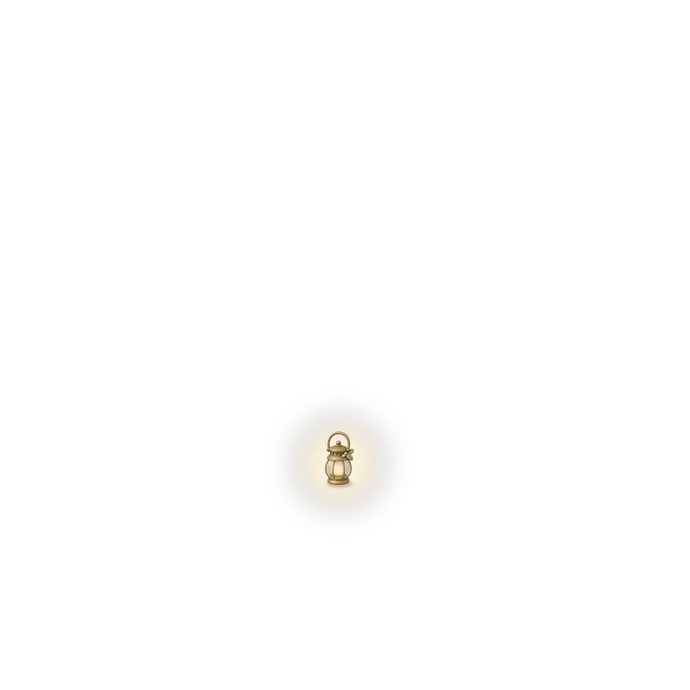
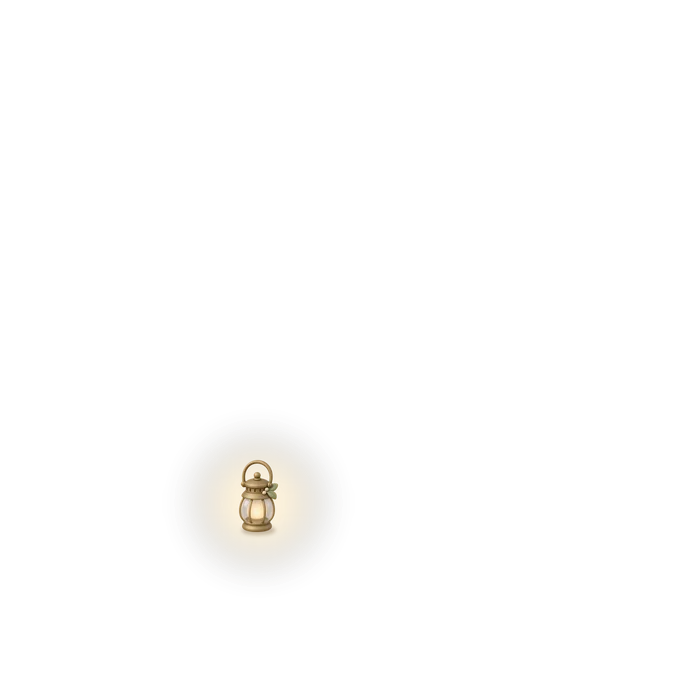
feat(island): 가구를 담당자가 직접 놓은 자리로 다시 만들고 7종만 남김 - 러그·치즈 선반·꽃 화분·랜턴·우편함·올리브 나무·나룻배, 디딤돌·울타리·벤치·해먹·먹이통은 자리 미정이라 mock 에서 주석 처리

Changed region(s): [[0.2739, 0.6087, 0.5783, 0.8217]]

diff --git a/src/features/island/islandApi.ts b/src/features/island/islandApi.ts
@@ -1,24 +1,19 @@
 import { ApiError } from '@/shared/api'
 import oliveTree from '@/assets/images/island-items/01-olive-tree.webp'
 import flowerPot from '@/assets/images/island-items/02-flower-pot.webp'
-import steppingStones from '@/assets/images/island-items/03-stepping-stones.webp'
-import fence from '@/assets/images/island-items/04-fence.webp'
-import bench from '@/assets/images/island-items/05-bench.webp'
-import hammock from '@/assets/images/island-items/06-hammock.webp'
+// import steppingStones from '@/assets/images/island-items/03-stepping-stones.webp'
+// import fence from '@/assets/images/island-items/04-fence.webp'
+// import bench from '@/assets/images/island-items/05-bench.webp'
+// import hammock from '@/assets/images/island-items/06-hammock.webp'
 import lantern from '@/assets/images/island-items/07-lantern.webp'
-import feedingTrough from '@/assets/images/island-items/08-feeding-trough.webp'
+// import feedingTrough from '@/assets/images/island-items/08-feeding-trough.webp'
 import cheeseShelf from '@/assets/images/island-items/09-cheese-shelf.webp'
 import mailbox from '@/assets/images/island-items/10-mailbox.webp'
 import rowboat from '@/assets/images/island-items/11-rowboat.webp'
 import rug from '@/assets/images/island-items/12-rug.webp'
 import oliveTreePlaced from '@/assets/images/island-items/placed/01-olive-tree.webp'
 import flowerPotPlaced from '@/assets/images/island-items/placed/02-flower-pot.webp'
-import steppingStonesPlaced from '@/assets/images/island-items/placed/03-stepping-stones.webp'
-import fencePlaced from '@/assets/images/island-items/placed/04-fence.webp'
-import benchPlaced from '@/assets/images/island-items/placed/05-bench.webp'
-import hammockPlaced from '@/assets/images/island-items/placed/06-hammock.webp'
 import lanternPlaced from '@/assets/images/island-items/placed/07-lantern.webp'
-import feedingTroughPlaced from '@/assets/images/island-items/placed/08-feeding-trough.webp'
 import cheeseShelfPlaced from '@/assets/images/island-items/placed/09-cheese-shelf.webp'
 import mailboxPlaced from '@/assets/images/island-items/placed/10-mailbox.webp'
 import rowboatPlaced from '@/assets/images/island-items/placed/11-rowboat.webp'
@@ -50,23 +45,25 @@ function mock(
   return { itemId, name, category, price, imageUrl, placedImageUrl, placedOrder, owned: false }
 }
 
-// 모듈 메모리(새로고침하면 초기화). 순서·이름·값은 시안 카드(109:280~) 그대로 — 그림 파일 번호(01~12)와 같은 순서.
+// 모듈 메모리(새로고침하면 초기화). 이름·값은 시안 카드(109:280~) 그대로 — 그림 파일 번호(01~12)와 같은 순서.
 // 임의 결정(확인 필요): 분류 배정은 이름으로 정함 — 시안·명세에 없음
-// 임의 결정(확인 필요): 섬에 놓이는 자리(줄 끝 주석)는 가구마다 하나씩 다르게 정함 — 시안 없음. 놓인 그림(placed/*.webp)은
-// 카드 그림을 섬 그림 위 그 자리에 얹어 만든 투명 레이어다(그림자·동굴 안 색·물에 잠긴 부분 포함).
+// 섬에 놓이는 자리·크기·겹치는 순서(마지막 인자)는 담당자가 배치 도구로 직접 놓은 값이다(2026-11-15). 놓인 그림(placed/*.webp)은
+// 카드 그림을 섬 그림 위 그 자리에 얹어 만든 투명 레이어다(그림자·동굴 안 색·물에 잠긴 부분은 임의로 넣음).
+// 주석 처리한 5종(디딤돌·울타리·벤치·해먹·먹이통)은 자리를 아직 정하지 않아 목록에서 뺐다 — 사용자 요청.
+// 되살릴 때: 자리를 정해 placed/ 에 놓인 그림을 만들고, 위의 카드 그림 import 주석과 함께 푼 뒤 `…Placed` import 를 더한다.
 const mockItems: IslandItem[] = [
-  mock('1', '올리브 나무', 'PLANT', 12, oliveTree, oliveTreePlaced, 4), // 동굴 지붕의 흰 바위 꼭대기
-  mock('2', '꽃 화분', 'PLANT', 24, flowerPot, flowerPotPlaced, 7), // 동굴 입구 왼쪽 모래
-  mock('3', '디딤돌', 'PATH', 12, steppingStones, steppingStonesPlaced, 6), // 선착장에서 동굴로 가는 모래밭
-  mock('4', '울타리', 'PROP', 24, fence, fencePlaced, 2), // 동굴 지붕의 풀밭 능선
-  mock('5', '벤치', 'FURNITURE', 12, bench, benchPlaced, 9), // 동굴 앞 오른쪽 모래밭
-  mock('6', '해먹', 'FURNITURE', 24, hammock, hammockPlaced, 10), // 선착장 위
-  mock('7', '랜턴', 'LIGHT', 12, lantern, lanternPlaced, 11), // 선착장 안쪽 기둥 위
-  mock('8', '먹이통', 'PROP', 24, feedingTrough, feedingTroughPlaced, 3), // 큰 올리브 나무 아래 풀밭
-  mock('9', '치즈 선반', 'FURNITURE', 12, cheeseShelf, cheeseShelfPlaced, 5), // 동굴 안 왼쪽 벽
-  mock('10', '우편함', 'PROP', 24, mailbox, mailboxPlaced, 8), // 선착장 왼쪽 둔덕
-  mock('11', '나룻배', 'PROP', 12, rowboat, rowboatPlaced, 12), // 오른쪽 앞 물 위
-  mock('12', '러그', 'PATH', 24, rug, rugPlaced, 1), // 동굴 바닥
+  mock('1', '올리브 나무', 'PLANT', 12, oliveTree, oliveTreePlaced, 2),
+  mock('2', '꽃 화분', 'PLANT', 24, flowerPot, flowerPotPlaced, 7),
+  // mock('3', '디딤돌', 'PATH', 12, steppingStones, steppingStonesPlaced, 0),
+  // mock('4', '울타리', 'PROP', 24, fence, fencePlaced, 0),
+  // mock('5', '벤치', 'FURNITURE', 12, bench, benchPlaced, 0),
+  // mock('6', '해먹', 'FURNITURE', 24, hammock, hammockPlaced, 0),
+  mock('7', '랜턴', 'LIGHT', 12, lantern, lanternPlaced, 11),
+  // mock('8', '먹이통', 'PROP', 24, feedingTrough, feedingTroughPlaced, 0),
+  mock('9', '치즈 선반', 'FURNITURE', 12, cheeseShelf, cheeseShelfPlaced, 5),
+  mock('10', '우편함', 'PROP', 24, mailbox, mailboxPlaced, 8),
+  mock('11', '나룻배', 'PROP', 12, rowboat, rowboatPlaced, 12),
+  mock('12', '러그', 'PATH', 24, rug, rugPlaced, 1),
 ]
 
 // 임의 결정(확인 필요): 시작 잔액 47 은 시안 머리의 "내 양털 47개" — 다른 화면(홈 12)과 맞지 않는 임시 값

diff --git a/docs/api/island.md b/docs/api/island.md
@@ -79,5 +79,5 @@ Response `data`
 
 - 아이템 목록·가격·분류의 원본(서버 고정 데이터인지 관리 화면이 있는지). 프론트 mock은 시안 카드 12종·값(12/24)과 이름으로 임의 배정한 분류를 쓴다.
 - 양털 거래에 소비 타입 추가와 `양털 변동 내역`에 구매가 어떻게 보일지.
-- 놓인 그림 12장은 지금 프론트가 카드 그림을 섬 위에 얹어 만든 것(`src/assets/images/island-items/placed/`)이다. 자리는 임의로 정했다 — 디자이너 확인 후 서버 그림으로 교체.
+- 놓인 그림은 지금 프론트가 카드 그림을 섬 위에 얹어 만든 것(`src/assets/images/island-items/placed/`, 7종)이다. 자리·크기는 프론트 담당자가 직접 놓았다 — 서버 그림으로 교체 예정. 시안 12종 중 5종(디딤돌·울타리·벤치·해먹·먹이통)은 자리 미정이라 mock 목록에서 뺐다.
 - 놓기 켜기/끄기·자리 옮기기, 홈의 섬에도 반영할지(`GET /home`에 포함 여부).
